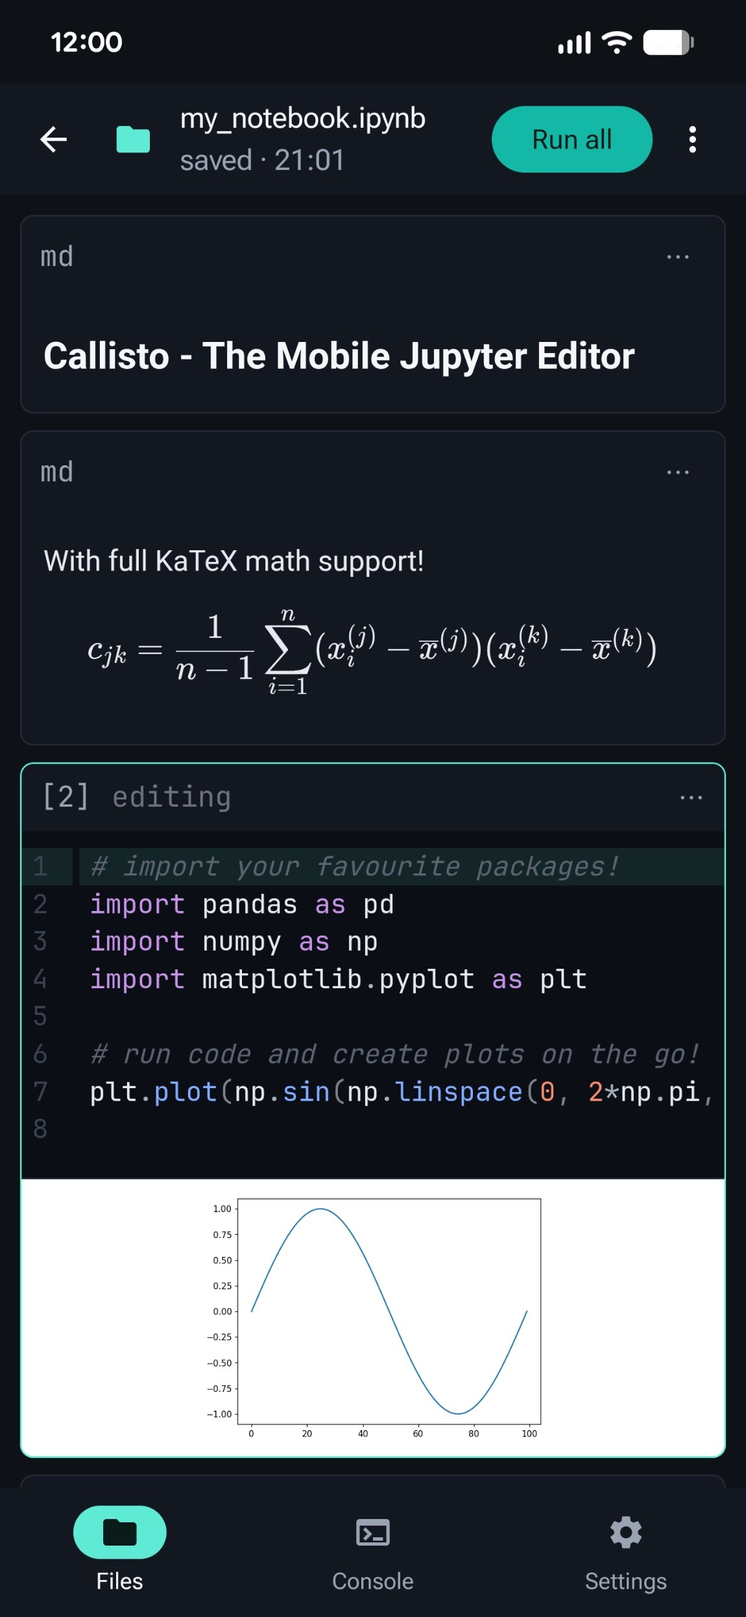
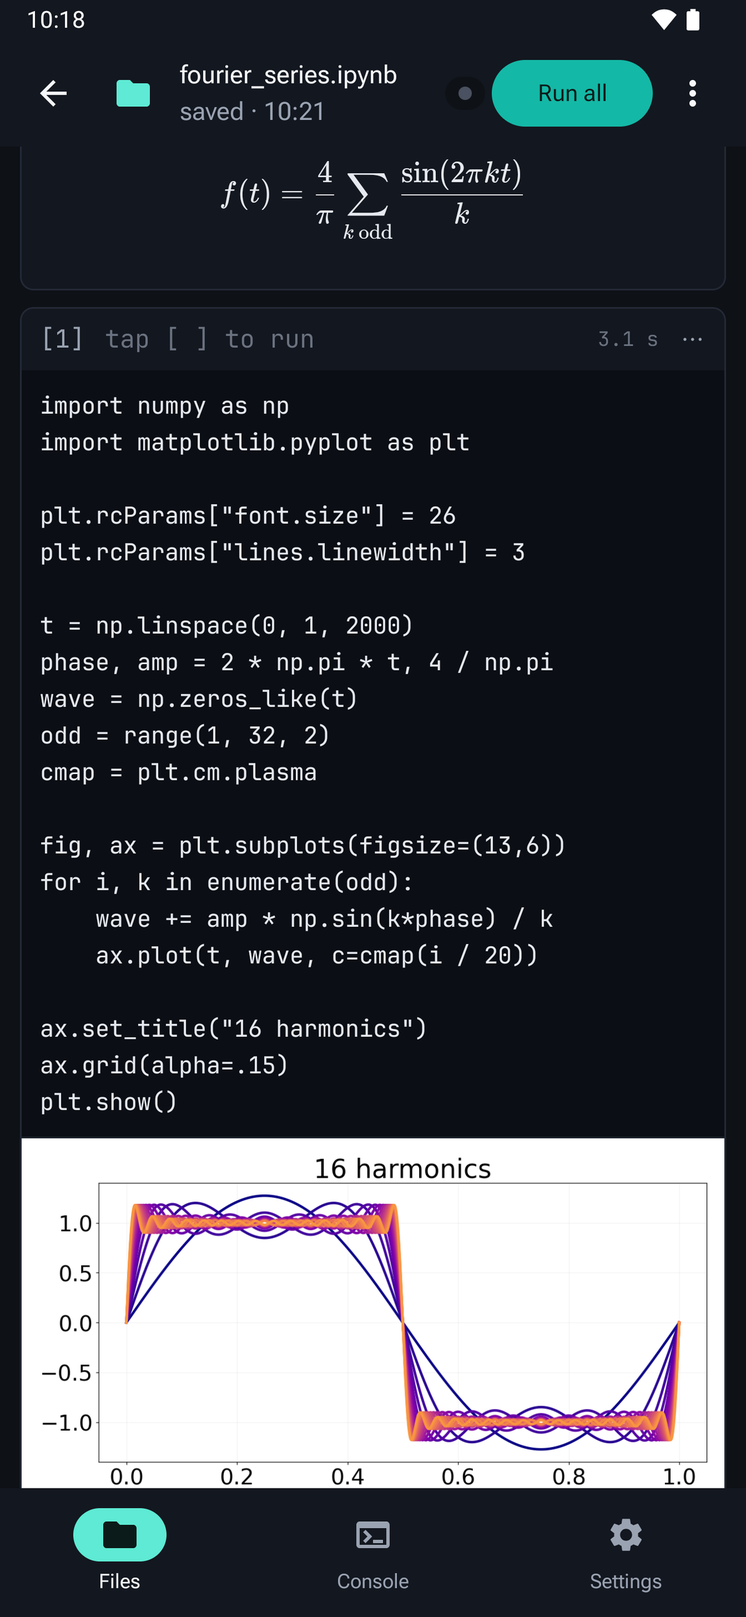
Stop promising fully-offline now that remote kernels exist
1.5.0 makes "your code never leaves your device" false the moment someone
connects a Jupyter server, so every claim that said it is re-worded to
"on-device by default": the hero, the meta/OG/Twitter descriptions, the
schema, the privacy badge and paragraph, the footer, and both FAQ answers
(visible text and the mirrored FAQPage JSON-LD, which Google wants
identical).

Three feature cards for the release, with the two Pro ones together at the
end of the row: live output, then remote kernels and server files.

The legal pages go to Version 1.1. Terms §5 no longer claims all code runs
on the device, and gains a paragraph putting the server you connect — its
security, its host's terms, its costs — on you. The Privacy Policy says what
travels to that server and that we are not a party to it. The app's copies
are still 1.0 and ship that way in 1.5.0; they catch up in 1.5.1, tracked in
the app repo.

licences.html was missing OkHttp and Okio (Session 35, Apache 2.0, so
attribution is an obligation) and DOMPurify (bundled since Session 29, never
listed).

New hero screenshot. Its status bar sits ~3.4 px below the frame edge, and
the old 2.5rem corner radius cut the leading "1" off the clock and clipped
the battery, so the frame is now 1.5rem — the widest radius that clears both.

diff --git a/index.html b/index.html
@@ -3,7 +3,7 @@
 <head>
     <meta charset="UTF-8">
     <meta name="viewport" content="width=device-width, initial-scale=1.0">
-    <meta name="description" content="Callisto is a Jupyter Notebook and Python IDE app for Android. Open, edit, and run .ipynb notebooks and .py scripts fully offline on your phone — with numpy, matplotlib, and the scientific Python stack built in.">
+    <meta name="description" content="Callisto is a Jupyter Notebook and Python IDE app for Android. Open, edit, and run .ipynb notebooks and .py scripts on your phone — offline by default, or on a Jupyter server you provide, with the scientific Python stack built in.">
     <meta name="theme-color" content="#0E1116">
     <title>Callisto — Run &amp; Edit Jupyter Notebooks on Android</title>
 
@@ -14,7 +14,7 @@
     <meta property="og:site_name" content="Callisto">
     <meta property="og:url" content="https://callistoapp.eu/">
     <meta property="og:title" content="Callisto — Run &amp; Edit Jupyter Notebooks on Android">
-    <meta property="og:description" content="Open, edit, and run .ipynb notebooks and Python scripts fully offline on your Android phone. No cloud, no account, no Termux setup.">
+    <meta property="og:description" content="Open, edit, and run .ipynb notebooks and Python scripts on your Android phone — offline by default, or on your own Jupyter server. No cloud account, no Termux setup.">
     <meta property="og:image" content="https://callistoapp.eu/assets/og-image.png">
     <meta property="og:image:width" content="1200">
     <meta property="og:image:height" content="630">
@@ -22,7 +22,7 @@
     <!-- Twitter Card -->
     <meta name="twitter:card" content="summary_large_image">
     <meta name="twitter:title" content="Callisto — Run &amp; Edit Jupyter Notebooks on Android">
-    <meta name="twitter:description" content="Open, edit, and run .ipynb notebooks and Python scripts fully offline on your Android phone. No cloud, no account, no Termux setup.">
+    <meta name="twitter:description" content="Open, edit, and run .ipynb notebooks and Python scripts on your Android phone — offline by default, or on your own Jupyter server. No cloud account, no Termux setup.">
     <meta name="twitter:image" content="https://callistoapp.eu/assets/og-image.png">
 
     <link rel="icon" type="image/png" href="assets/callisto-icon.png">
@@ -44,7 +44,8 @@
       "name": "Callisto: Jupyter Editor",
       "operatingSystem": "Android",
       "applicationCategory": "DeveloperApplication",
-      "description": "Callisto is a Jupyter Notebook editor and Python IDE for Android. Open .ipynb files, edit cells, run Python code, and see output — fully offline, with no server or cloud account.",
+      "description": "Callisto is a Jupyter Notebook editor and Python IDE for Android. Open .ipynb files, edit cells, run Python code, and see output — on-device by default, so it works fully offline with no server or cloud account. Notebooks can optionally be run on a Jupyter server you provide.",
+      "softwareVersion": "1.5.0",
       "url": "https://callistoapp.eu/",
       "image": "https://callistoapp.eu/assets/callisto-icon@2x.png",
       "installUrl": "https://play.google.com/store/apps/details?id=app.callisto",
@@ -69,7 +70,7 @@
           "name": "Can you run Jupyter notebooks on Android?",
           "acceptedAnswer": {
             "@type": "Answer",
-            "text": "Yes. Callisto runs Jupyter notebooks entirely on your Android device using CPython 3.10 — no server, no Google Colab, and no internet connection required. You can run cells individually, run all, and interrupt long-running code."
+            "text": "Yes. Callisto runs Jupyter notebooks on your Android device using CPython 3.10 — no server, no Google Colab, and no internet connection required. You can run cells individually, run all, and interrupt long-running code. If you would rather use a bigger machine, connecting your own Jupyter server is optional."
           }
         },
         {
@@ -93,7 +94,15 @@
           "name": "Does Callisto work offline?",
           "acceptedAnswer": {
             "@type": "Answer",
-            "text": "Yes, completely. Code is edited and executed on-device, so it works on a plane or without any signal. There is no account and your code is never uploaded."
+            "text": "Yes. Editing and execution happen on-device by default, so Callisto works on a plane or without any signal, and there is no account. Connecting to a Jupyter server is the one thing that needs a network — it is optional, off until you set one up, and it is your server, not ours."
+          }
+        },
+        {
+          "@type": "Question",
+          "name": "Can I run a notebook on a remote Jupyter server?",
+          "acceptedAnswer": {
+            "@type": "Answer",
+            "text": "Yes, from version 1.5.0. Callisto connects to any Jupyter server — Termux on the same phone, a desktop on your Wi-Fi, or a rented GPU box — and runs your notebook there. Output streams back while the code is still running, a run survives a dropped connection, and you can browse, upload and download the server's files. Remote kernels are part of the one-time Lifetime Unlock; on-device execution stays free."
           }
         },
         {
@@ -109,7 +118,7 @@
           "name": "Is Callisto free?",
           "acceptedAnswer": {
             "@type": "Answer",
-            "text": "Callisto is free to install and use with the core stack. A single one-time purchase unlocks the full scientific package set and premium features — there is no subscription."
+            "text": "Callisto is free to install and use with the core stack. A single one-time purchase unlocks the full scientific package set, remote kernels and the coding keyboard — there is no subscription."
           }
         }
       ]
@@ -144,7 +153,7 @@
                     <span class="text-transparent bg-clip-text bg-gradient-to-r from-accent to-accentSolid">In your pocket.</span>
                 </h1>
                 <p class="text-lg md:text-xl text-fgMuted leading-relaxed">
-                    Callisto is a full Python IDE for Android. Edit and run <code class="font-mono text-fg text-base">.ipynb</code> notebooks and <code class="font-mono text-fg text-base">.py</code> scripts entirely on your device — no cloud, no account, no internet required.
+                    Callisto is a full Python IDE for Android. Edit and run <code class="font-mono text-fg text-base">.ipynb</code> notebooks and <code class="font-mono text-fg text-base">.py</code> scripts on your device — no cloud, no account, no internet required. Or point it at your own Jupyter server when the phone isn't enough.
                 </p>
                 <div class="pt-2 flex flex-col sm:flex-row gap-4">
                     <a href="https://play.google.com/store/apps/details?id=app.callisto" class="inline-flex items-center gap-4 bg-fgStrong hover:bg-fg text-bg px-8 py-4 rounded-full font-bold transition-all transform hover:scale-105 hover:shadow-[0_0_20px_rgba(230,233,239,0.2)]">
@@ -168,8 +177,15 @@
                 <!--
                     Phone mockup. The frame matches the screenshot aspect ratio (1150:2492 ~ 9:19.5)
                     so the image fills it without cropping.
+
+                    The corner radius is a constraint, not a taste call: the frame clips the
+                    screenshot, and the status bar sits ~3.4 px below the top edge at the 280 px
+                    width with the clock 10.7 px in from the left. 2.5rem (36 px inner) cut the
+                    leading "1" off the clock and clipped the battery; 1.5rem (20 px inner) clears
+                    both with ~10 % margin. Re-check this if the screenshot is ever reshot with a
+                    different status-bar layout.
                 -->
-                <div class="relative w-[280px] sm:w-[320px] aspect-[1150/2492] bg-bg border-4 border-borderStrong rounded-[2.5rem] shadow-2xl overflow-hidden">
+                <div class="relative w-[280px] sm:w-[320px] aspect-[1150/2492] bg-bg border-4 border-borderStrong rounded-[1.5rem] shadow-2xl overflow-hidden">
                     <img src="assets/screenshot.png"
                          alt="Callisto running on Android"
                          class="absolute inset-0 w-full h-full object-cover object-top">
@@ -196,9 +212,9 @@
                         <div class="w-12 h-12 bg-accentSolid/10 rounded-lg flex items-center justify-center mb-6">
                             <i class="fa-solid fa-microchip text-accent text-xl"></i>
                         </div>
-                        <h3 class="text-xl font-bold text-fgStrong mb-3">100% on-device</h3>
+                        <h3 class="text-xl font-bold text-fgStrong mb-3">On-device by default</h3>
                         <p class="text-fgMuted leading-relaxed">
-                            CPython 3.10 runs locally via Chaquopy. No servers, no accounts, no telemetry on your code. Works offline on a plane or a train.
+                            CPython 3.10 runs locally via Chaquopy. No server required, no account, no telemetry on your code. Works offline on a plane or a train.
                         </p>
                     </div>
 
@@ -252,6 +268,42 @@
                         </p>
                     </div>
 
+                    <div class="reveal-item opacity-0 translate-y-8 transition-all duration-700 ease-out bg-bg3 border border-borderSoft hover:border-borderStrong rounded-2xl p-8 flex flex-col">
+                        <div class="w-12 h-12 bg-accentSolid/10 rounded-lg flex items-center justify-center mb-6">
+                            <i class="fa-solid fa-wave-square text-accent text-xl"></i>
+                        </div>
+                        <h3 class="text-xl font-bold text-fgStrong mb-3">Live output</h3>
+                        <p class="text-fgMuted leading-relaxed">
+                            Output streams back while the cell is still running — a long training run is a live log, not a spinner. <code class="font-mono text-fg">input()</code> and <code class="font-mono text-fg">getpass()</code> get a field to answer them.
+                        </p>
+                    </div>
+
+                    <div class="reveal-item opacity-0 translate-y-8 transition-all duration-700 ease-out delay-100 bg-bg3 border border-borderSoft hover:border-borderStrong rounded-2xl p-8 flex flex-col">
+                        <div class="flex items-center justify-between mb-6">
+                            <div class="w-12 h-12 bg-accentSolid/10 rounded-lg flex items-center justify-center">
+                                <i class="fa-solid fa-server text-accent text-xl"></i>
+                            </div>
+                            <span class="px-2.5 py-1 rounded-full bg-accentSolid/10 border border-accentSolid/30 text-accent text-[11px] font-bold uppercase tracking-wider">Pro</span>
+                        </div>
+                        <h3 class="text-xl font-bold text-fgStrong mb-3">Remote kernels</h3>
+                        <p class="text-fgMuted leading-relaxed">
+                            Connect any Jupyter server and run the same notebook there — Termux on this phone, a desktop on your Wi-Fi, or a rented GPU box. Setup guides for each are built into the app.
+                        </p>
+                    </div>
+
+                    <div class="reveal-item opacity-0 translate-y-8 transition-all duration-700 ease-out delay-150 bg-bg3 border border-borderSoft hover:border-borderStrong rounded-2xl p-8 flex flex-col">
+                        <div class="flex items-center justify-between mb-6">
+                            <div class="w-12 h-12 bg-accentSolid/10 rounded-lg flex items-center justify-center">
+                                <i class="fa-solid fa-cloud-arrow-up text-accent text-xl"></i>
+                            </div>
+                            <span class="px-2.5 py-1 rounded-full bg-accentSolid/10 border border-accentSolid/30 text-accent text-[11px] font-bold uppercase tracking-wider">Pro</span>
+                        </div>
+                        <h3 class="text-xl font-bold text-fgStrong mb-3">Server files</h3>
+                        <p class="text-fgMuted leading-relaxed">
+                            Browse the server's files, upload and download, pick the folder your code runs in, and open a notebook straight off the box. A run survives a dropped connection.
+                        </p>
+                    </div>
+
                 </div>
             </div>
         </section>
@@ -265,7 +317,7 @@
                         Callisto ships with the libraries you actually use. No <code class="font-mono text-fg">pip install</code>, no broken wheels, no waiting for a manylinux build that doesn't exist on ARM.
                     </p>
                     <p class="text-fgMuted leading-relaxed">
-                        Free tier includes the core data-science stack. The one-time <span class="text-fg font-semibold">Lifetime Unlock</span> adds extended packages and premium features — no subscription, ever.
+                        Free tier includes the core data-science stack. The one-time <span class="text-fg font-semibold">Lifetime Unlock</span> adds the extended packages, remote kernels and the coding keyboard — no subscription, ever.
                     </p>
                 </div>
                 <div class="bg-panel border border-borderSoft rounded-2xl p-6 md:p-8">
@@ -300,7 +352,7 @@
                     <div>
                         <h3 class="text-xl font-bold text-fgStrong mb-3">Can you run Jupyter notebooks on Android?</h3>
                         <p class="text-fgMuted leading-relaxed">
-                            Yes. Callisto runs Jupyter notebooks entirely on your Android device using CPython 3.10 — no server, no Google Colab, and no internet connection required. You can run cells individually, run all, and interrupt long-running code.
+                            Yes. Callisto runs Jupyter notebooks on your Android device using CPython 3.10 — no server, no Google Colab, and no internet connection required. You can run cells individually, run all, and interrupt long-running code. If you would rather use a bigger machine, connecting your own Jupyter server is optional.
                         </p>
                     </div>
 
@@ -321,7 +373,14 @@
                     <div>
                         <h3 class="text-xl font-bold text-fgStrong mb-3">Does Callisto work offline?</h3>
                         <p class="text-fgMuted leading-relaxed">
-                            Yes, completely. Code is edited and executed on-device, so it works on a plane or without any signal. There is no account and your code is never uploaded.
+                            Yes. Editing and execution happen on-device by default, so Callisto works on a plane or without any signal, and there is no account. Connecting to a Jupyter server is the one thing that needs a network — it is optional, off until you set one up, and it is your server, not ours.
+                        </p>
+                    </div>
+
+                    <div>
+                        <h3 class="text-xl font-bold text-fgStrong mb-3">Can I run a notebook on a remote Jupyter server?</h3>
+                        <p class="text-fgMuted leading-relaxed">
+                            Yes, from version 1.5.0. Callisto connects to any Jupyter server &mdash; Termux on the same phone, a desktop on your Wi-Fi, or a rented GPU box &mdash; and runs your notebook there. Output streams back while the code is still running, a run survives a dropped connection, and you can browse, upload and download the server's files. Remote kernels are part of the one-time Lifetime Unlock; on-device execution stays free.
                         </p>
                     </div>
 
@@ -335,7 +394,7 @@
                     <div>
                         <h3 class="text-xl font-bold text-fgStrong mb-3">Is Callisto free?</h3>
                         <p class="text-fgMuted leading-relaxed">
-                            Callisto is free to install and use with the core stack. A single one-time purchase unlocks the full scientific package set and premium features — there is no subscription.
+                            Callisto is free to install and use with the core stack. A single one-time purchase unlocks the full scientific package set, remote kernels and the coding keyboard — there is no subscription.
                         </p>
                     </div>
 
@@ -348,11 +407,11 @@
             <div class="container mx-auto px-6 max-w-3xl text-center space-y-8">
                 <div class="inline-flex items-center gap-2 px-4 py-1.5 rounded-full bg-accentSolid/10 border border-accentSolid/30 text-accent text-sm font-semibold">
                     <i class="fa-solid fa-shield-halved"></i>
-                    Your code stays on your device
+                    Your code goes where you send it — nowhere else
                 </div>
                 <h2 class="text-3xl md:text-4xl font-bold text-fgStrong">Privacy by design.</h2>
                 <p class="text-fgMuted leading-relaxed text-lg">
-                    No account. No code uploads. Crash diagnostics are anonymous and contain no file contents. Usage analytics are opt-in and off by default. The internet permission exists only so <code class="font-mono text-fg">requests</code> works for code <em>you</em> write.
+                    No account. We never receive your code. Crash diagnostics are anonymous and contain no file contents. Usage analytics are opt-in and off by default. The internet permission covers two things and nothing else: code <em>you</em> write that reaches out (<code class="font-mono text-fg">requests</code>), and the Jupyter server <em>you</em> chose to connect to.
                 </p>
                 <div class="flex flex-col sm:flex-row items-center justify-center gap-4 pt-4">
                     <a href="https://play.google.com/store/apps/details?id=app.callisto" class="inline-flex items-center gap-4 bg-accentSolid hover:bg-accent text-accentFg px-8 py-4 rounded-full font-bold transition-all transform hover:scale-105">
@@ -376,7 +435,7 @@
                     <img src="assets/callisto-icon.png" alt="Callisto" width="32" height="32" class="w-8 h-8 rounded-lg">
                     <span class="text-lg font-bold text-fgStrong">Callisto</span>
                 </div>
-                <p class="text-fgMuted text-sm max-w-xs">Jupyter Notebooks and Python scripting on Android — no cloud, no account, just code.</p>
+                <p class="text-fgMuted text-sm max-w-xs">Jupyter Notebooks and Python scripting on Android — your device or your server, no cloud account, just code.</p>
             </div>
             <div>
                 <h4 class="text-fgStrong font-semibold mb-3 text-sm uppercase tracking-wider">Product</h4>

diff --git a/terms.html b/terms.html
@@ -46,12 +46,12 @@
 
         <article class="prose">
             <h1 class="text-4xl md:text-5xl font-extrabold text-fgStrong mb-4">Terms of Service</h1>
-            <p class="meta mb-12">Effective 21 May 2026 &middot; Version 1.0</p>
+            <p class="meta mb-12">Effective 4 September 2026 &middot; Version 1.1</p>
 
             <p>These Terms of Service ("Terms") govern your use of Callisto ("App"), developed and operated by Sebastian Pichler, Lindengasse 4, 4040 Linz, Austria ("Developer"). By downloading, installing, or using the App you agree to be bound by these Terms.</p>
 
             <h2>1. Description of the App</h2>
-            <p>Callisto is a Python development environment for Android. It allows you to create, edit, and execute Jupyter notebooks and Python scripts entirely on your device — no internet connection, no server, and no user account are required.</p>
+            <p>Callisto is a Python development environment for Android. It allows you to create, edit, and execute Jupyter notebooks and Python scripts on your device — no internet connection, no server, and no user account are required. The App can additionally connect to a Jupyter server that you provide and control, and run your code there instead; this is optional and inactive until you configure it.</p>
 
             <h2>2. Acceptance of Terms</h2>
             <p>By using the App you confirm that you have read, understood, and agree to these Terms and to our Privacy Policy (available under Settings → About → Privacy Policy). If you do not agree, please do not use the App.</p>
@@ -66,8 +66,9 @@
             <p><strong>Paid tier ("Lifetime Unlock"):</strong> Additional Python packages and premium features are available as a one-time in-app purchase. The Lifetime Unlock is a single payment with no recurring charges. The purchase is processed by Google LLC through the Google Play Store and is governed by Google's Terms of Service, Google Play Developer Distribution Agreement, and applicable payment terms. The Developer does not process or store payment information. Once purchased, the Lifetime Unlock is tied to your Google Play account and may be restored on other devices using the same account.</p>
             <p><strong>Refunds:</strong> Requests for refunds are handled by Google Play in accordance with Google's refund policies. The Developer cannot process refunds directly.</p>
 
-            <h2>5. On-device code execution and user responsibility</h2>
-            <p>All Python code you write and execute in the App runs exclusively on your device. The Developer has no access to your notebooks, scripts, data files, or any outputs produced by your code.</p>
+            <h2>5. Code execution and user responsibility</h2>
+            <p>Python code you write and execute in the App runs on your device, unless you have connected the App to a Jupyter server you provide, in which case it runs on that server. Either way the Developer has no access to your notebooks, scripts, data files, or any outputs produced by your code.</p>
+            <p><strong>Servers you connect are yours.</strong> You are responsible for any Jupyter server you configure — for obtaining it lawfully, for securing it, for the terms of whoever operates or hosts it, and for anything your code does there or any costs it incurs. The Developer supplies no server, has no relationship with the operator of yours, and accepts no liability for its availability, security, or contents. Access tokens you enter are stored on your device.</p>
             <p>You are solely responsible for the code you write and execute and for any effects that code may have on your device, your files, or any third-party services you call from your code. The Developer accepts no liability for damage to your device, loss of data, or any other harm resulting from code you choose to run.</p>
             <p>You agree not to use the App to write or execute code that is unlawful, harmful, abusive, or that infringes the rights of third parties.</p>
 
@@ -109,7 +110,7 @@
                 <a href="mailto:dev@callistoapp.eu">dev@callistoapp.eu</a>
             </p>
 
-            <p class="meta mt-12 pt-8 border-t border-borderSoft">Effective date: 21 May 2026 &middot; Version 1.0</p>
+            <p class="meta mt-12 pt-8 border-t border-borderSoft">Effective date: 4 September 2026 &middot; Version 1.1</p>
         </article>
     </main>
 

diff --git a/privacy.html b/privacy.html
@@ -50,7 +50,7 @@
 
         <article class="prose">
             <h1 class="text-4xl md:text-5xl font-extrabold text-fgStrong mb-4">Privacy Policy</h1>
-            <p class="meta mb-12">Datenschutzerklärung / Privacy Policy &middot; Effective 21 May 2026 &middot; Version 1.0</p>
+            <p class="meta mb-12">Datenschutzerklärung / Privacy Policy &middot; Effective 4 September 2026 &middot; Version 1.1</p>
 
             <p>This Privacy Policy describes how Sebastian Pichler ("we", "us", or "our") processes personal data in connection with the Callisto app ("App") on Android devices. It applies from the date of first use of the App.</p>
 
@@ -78,7 +78,8 @@
             <p>When you have not enabled analytics, no usage events are sent.</p>
 
             <h2>Your files and data</h2>
-            <p>Your notebooks, scripts, and workspace files are stored exclusively on your device in app-private storage. We have no access to the content of your files, nor do we transmit them anywhere. No internet connection is required to use the App.</p>
+            <p>Your notebooks, scripts, and workspace files are stored on your device in app-private storage. We have no access to the content of your files, nor do we transmit them anywhere. No internet connection is required to use the App.</p>
+            <p><strong>Jupyter servers you connect yourself.</strong> The App can optionally connect to a Jupyter server that you choose and configure — for example Termux on the same phone, a machine on your own network, or a server you rent. While such a connection is active, the code you run, the output it produces, and any files you upload or download travel between your device and that server. That connection is between you and the operator of that server; we are not a party to it, we receive nothing from it, and we operate no such server. Server addresses and access tokens you enter are stored on your device only. This feature is off until you set a server up.</p>
 
             <h2>Data retention</h2>
             <p>Crash report data is retained by Google on Firebase Crashlytics for up to 90 days. Analytics event data is retained for 60 days (Firebase default retention setting). These retention periods are set by Google and may change; please refer to Google's Firebase Data Processing and Security Terms for the current settings.</p>
@@ -87,7 +88,7 @@
             <p>We share data only with the following processor:</p>
             <p>Google Ireland Limited, Gordon House, Barrow Street, Dublin 4, Ireland (Firebase Crashlytics and Firebase Analytics).</p>
             <p>Google may transfer data to servers in the United States and other countries outside the EEA. Google provides appropriate safeguards for such transfers under Standard Contractual Clauses adopted pursuant to Article 46(2)(c) GDPR. For details, see <a href="https://policies.google.com/privacy">Google's Privacy Policy</a> and the Firebase Data Processing and Security Terms.</p>
-            <p>No other third parties receive your data.</p>
+            <p>No other third parties receive your data. A Jupyter server you connect yourself is not a processor acting for us — see <em>Your files and data</em> above.</p>
 
             <h2>Your rights under the GDPR</h2>
             <p>You have the following rights regarding your personal data, subject to statutory conditions:</p>
@@ -111,7 +112,7 @@
             <h2>Contact</h2>
             <p>For any questions or requests relating to this Privacy Policy: <a href="mailto:dev@callistoapp.eu">dev@callistoapp.eu</a></p>
 
-            <p class="meta mt-12 pt-8 border-t border-borderSoft">Effective date: 21 May 2026 &middot; Version 1.0</p>
+            <p class="meta mt-12 pt-8 border-t border-borderSoft">Effective date: 4 September 2026 &middot; Version 1.1</p>
         </article>
     </main>
 

diff --git a/licences.html b/licences.html
@@ -101,6 +101,9 @@
                 <div><span class="component">Roboto Flex</span><div class="copyright">Copyright (c) 2017 Google LLC</div></div>
                 <div><span class="component">JetBrains Mono</span><div class="copyright">Copyright (c) 2019–2023 JetBrains s.r.o.</div></div>
                 <div><span class="component">requests</span><div class="copyright">Copyright (c) 2019 Kenneth Reitz</div></div>
+                <div><span class="component">OkHttp</span><div class="copyright">Copyright (c) 2019 Square, Inc.</div></div>
+                <div><span class="component">Okio</span><div class="copyright">Copyright (c) 2019 Square, Inc.</div></div>
+                <div><span class="component">DOMPurify</span> <span class="copyright">(dual-licensed Apache 2.0 / MPL 2.0; used under Apache 2.0)</span><div class="copyright">Copyright (c) 2024 Dr.-Ing. Mario Heiderich, Cure53</div></div>
             </div>
             <div class="licence-block">
                 <p>Licensed under the Apache License, Version 2.0 (the "License"); you may not use these files except in compliance with the License. You may obtain a copy of the License at:</p>

diff --git a/README.md b/README.md
@@ -4,13 +4,20 @@ Marketing landing page for [Callisto](https://callistoapp.eu) — an Android Pyt
 
 Static HTML + Tailwind (via CDN) + FontAwesome. No build step.
 
+**Copy currency: app version 1.5.0** (remote kernels, streaming output, server
+files). The landing copy names Pro features and carries a `softwareVersion` in
+the `SoftwareApplication` JSON-LD, so a feature release means a pass over
+`index.html`: the feature cards, the FAQ (**both** the visible answers and the
+mirrored `FAQPage` JSON-LD — Google wants them identical), and the Pro line in
+the stack section.
+
 ## Pages
 
 | File | Purpose |
 |---|---|
 | [`index.html`](index.html) | Landing — hero, features, bundled-package list, CTA |
-| [`privacy.html`](privacy.html) | Privacy Policy (GDPR-aligned, mirrors in-app text) |
-| [`terms.html`](terms.html) | Terms of Service (Austrian law, mirrors in-app text) |
+| [`privacy.html`](privacy.html) | Privacy Policy (GDPR-aligned, **should** mirror in-app text — see below) |
+| [`terms.html`](terms.html) | Terms of Service (Austrian law, **should** mirror in-app text — see below) |
 | [`licences.html`](licences.html) | Open-source licences for bundled components |
 | [`legal.html`](legal.html) | Legal hub + ECG §5 / MedienG §25 imprint |
 | [`404.html`](404.html) | Themed not-found page |
@@ -21,3 +28,24 @@ Static HTML + Tailwind (via CDN) + FontAwesome. No build step.
 - [`assets/callisto-icon@2x.png`](assets/callisto-icon@2x.png) — 1024 px @2x
 - [`assets/tailwind-config.js`](assets/tailwind-config.js) — design tokens (mirrors `CallistoColors` in the app)
 - [`assets/screenshot.svg`](assets/screenshot.png) — app screenshot.
+
+## The legal pages are ahead of the shipped app until 1.5.1
+
+Both were revised to **Version 1.1, effective 4 September 2026** for remote
+kernels: the Privacy Policy describes what travels to a Jupyter server you
+configure, and Terms §5 no longer claims all code runs on your device.
+
+The app's copies were brought in line on 2026-09-04 and are now identical to
+these pages, **but that fix is not in a released build.** 1.5.0 went into Play
+review carrying Version 1.0, so until 1.5.1 is live the text a user actually
+accepts in the app is still the older one. Delete this section when 1.5.1 ships.
+
+## `assets/og-image.png` still says "fully offline"
+
+The social-share card (Open Graph / Twitter) carries the tagline *"Run & edit
+Jupyter notebooks on Android — fully offline."* baked into the PNG. Every other
+"fully offline" claim on the site was re-worded for 1.5.0; this one cannot be
+edited as text and there is no source file for it in the repo. It is what shows
+up when the site is linked on social or in chat apps, so it is worth
+regenerating — 1200×630, same layout, tagline something like *"Run & edit
+Jupyter notebooks on Android — on your device or your server."*
